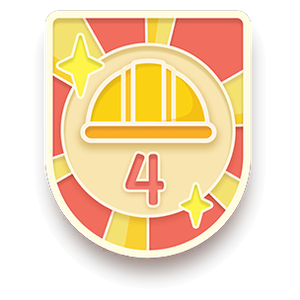
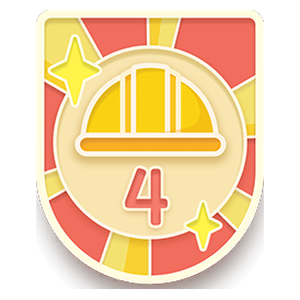
新規3バッジ画像のサイズを他と揃うよう修正 (#25)
ビルダービー・振付の名手・振付マスターの3枚は、提供元画像に付いていた
半透明のドロップシャドウまで余白計算に含めてトリムしていたため、
不透明部分（実際に見えるバッジ本体）が既存画像より一回り小さく
表示されていた。

不透明度の高い部分（閾値160超）だけでトリム範囲を決めるよう修正し、
既存バッジ画像と同じ見た目の大きさになるよう再生成した。

Claude-Session: https://claude.ai/code/session_01K3eMRAeT6oYS9BRu22swvm

diff --git a/achievements.html b/achievements.html
@@ -528,7 +528,7 @@ const ACH_HIDDEN_BADGE_IMG = "./images/achievements/hidden.png";
 // バッジ画像はファイル名を変えずに中身を差し替えることがあるため、Service
 // Workerの画像キャッシュ（cache-first）が古い中身を返し続けないよう、
 // クエリ文字列でキャッシュを明示的にバストする。画像を差し替えた際はこの値を上げる
-const ACH_IMG_CACHE_BUST = "2";
+const ACH_IMG_CACHE_BUST = "3";
 function withCacheBust(src){
   return src ? (src + "?v=" + ACH_IMG_CACHE_BUST) : src;
 }

diff --git a/service-worker.js b/service-worker.js
@@ -1,5 +1,5 @@
 // キャッシュ名（更新時はバージョンを上げる）
-const CACHE_NAME = "hatopi-v2.613.0";
+const CACHE_NAME = "hatopi-v2.614.0";
 
 // キャッシュするファイル一覧
 const CACHE_FILES = [
